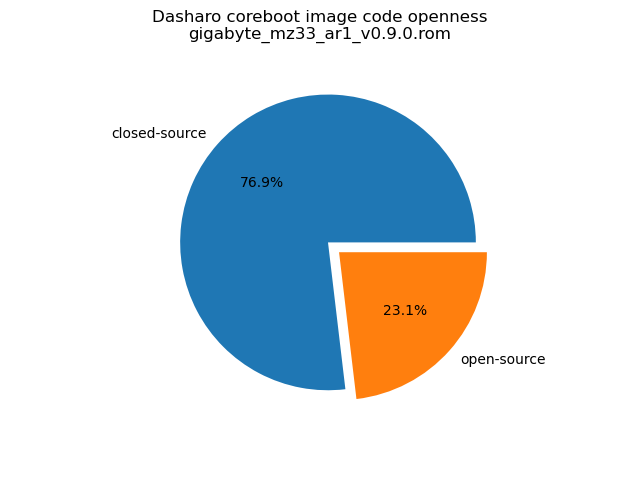
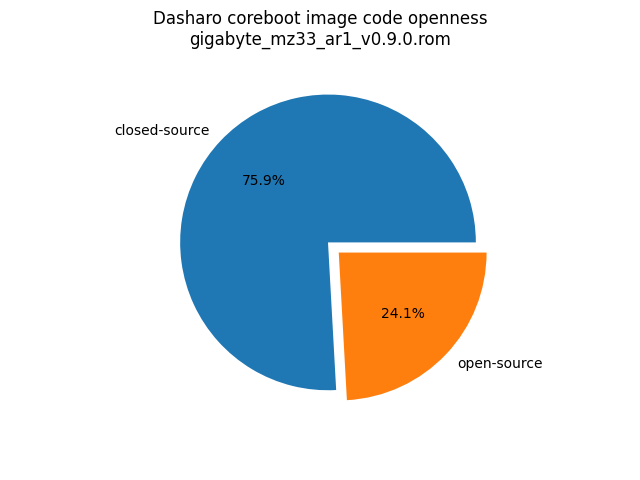
docs/variants/gigabyte_mz33-ar1: Update v0.9.0 Openness Score

diff --git a/docs/variants/gigabyte_mz33-ar1/openness-score.md b/docs/variants/gigabyte_mz33-ar1/openness-score.md
@@ -9,16 +9,16 @@ utility](https://github.com/Dasharo/Openness-Score).
 
 Openness Score for gigabyte_mz33_ar1_v0.9.0.rom
 
-Open-source code percentage: **23.1%**
-Closed-source code percentage: **76.9%**
+Open-source code percentage: **24.1%**
+Closed-source code percentage: **75.9%**
 
 * Image size: 33554432 (0x2000000)
-* Number of regions: 30
+* Number of regions: 31
 * Number of CBFSes: 4
 * Total open-source code size: 1648422 (0x192726)
-* Total closed-source code size: 5480640 (0x53a0c0)
-* Total data size: 1779366 (0x1b26a6)
-* Total empty size: 7868788 (0x781174)
+* Total closed-source code size: 5185728 (0x4f20c0)
+* Total data size: 2074278 (0x1fa6a6)
+* Total empty size: 24646004 (0x1781174)
 
 ![](gigabyte_mz33_ar1_v0.9.0.rom_openness_chart.png)
 
@@ -45,9 +45,12 @@ Closed-source code percentage: **76.9%**
 | VBLOCK_DEV | 0xe06000 | 0x2000 | data |
 | RW_VPD | 0xe08000 | 0x2000 | data |
 | RW_NVRAM | 0xe0a000 | 0x6000 | data |
+| PSP_SEV_NVRAM | 0xe48000 | 0x8000 | data |
 | CONSOLE | 0xe50000 | 0x20000 | data |
+| PSP_RPMC_NVRAM | 0xe70000 | 0x40000 | data |
 | SMMSTORE | 0xeb0000 | 0x80000 | data |
 | RW_MRC_CACHE | 0xf30000 | 0xd0000 | data |
+| UNUSED | 0x1000000 | 0x1000000 | empty |
 
 ### CBFS COREBOOT
 

diff --git a/docs/variants/overview.md b/docs/variants/overview.md
@@ -133,3 +133,4 @@ Each metric is calculated using the formula:
 | Novacustom NV4xME_MB | novacustom_nv4x_tgl_v1.5.2.rom | NV4XBX.05 | -30.1 | 3.0 | -24.4 |
 | Novacustom NSxxPU | novacustom_ns5x_adl_v1.7.2.rom | NSx0PU(32M).09 | -26.3 | -0.8 | -7.2 |
 | Novacustom NS5xMU | novacustom_ns5x_tgl_v1.5.2.rom | NS50_70MU.16N | -30.6 | 2.9 | -23.4 |
+| Gigabyte MZ33-AR1 | gigabyte_mz33_ar1_v0.9.0.rom | MZ33-AR1_R21_F14/image.bin | -80.0 | 5301.8 | 227.3 |